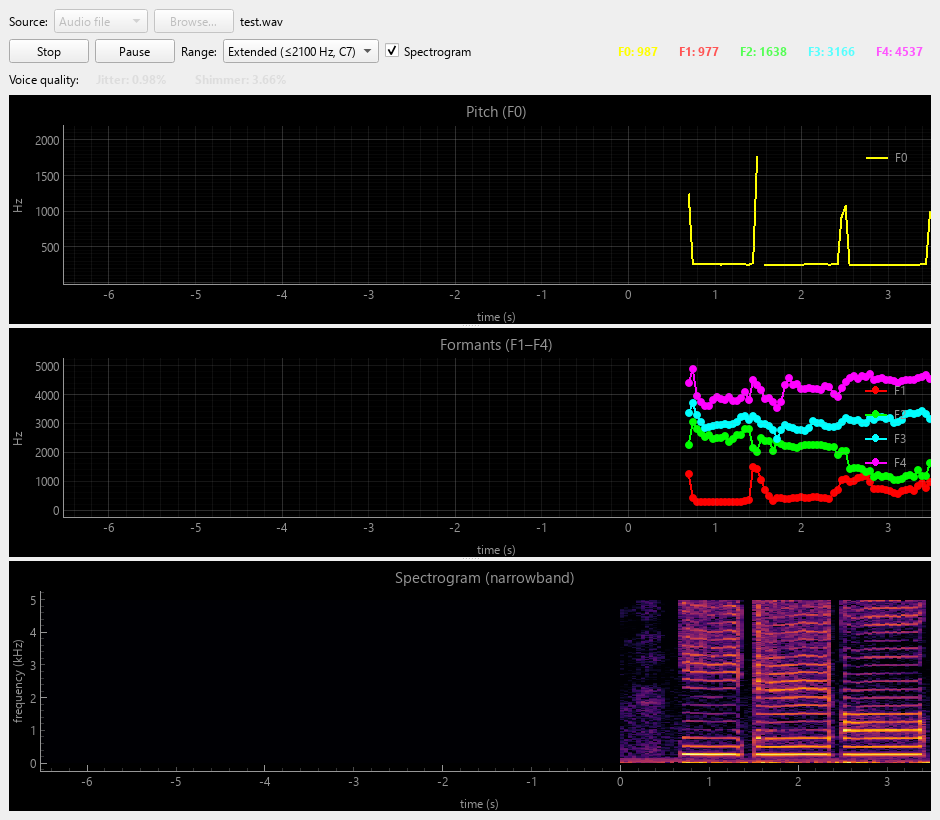
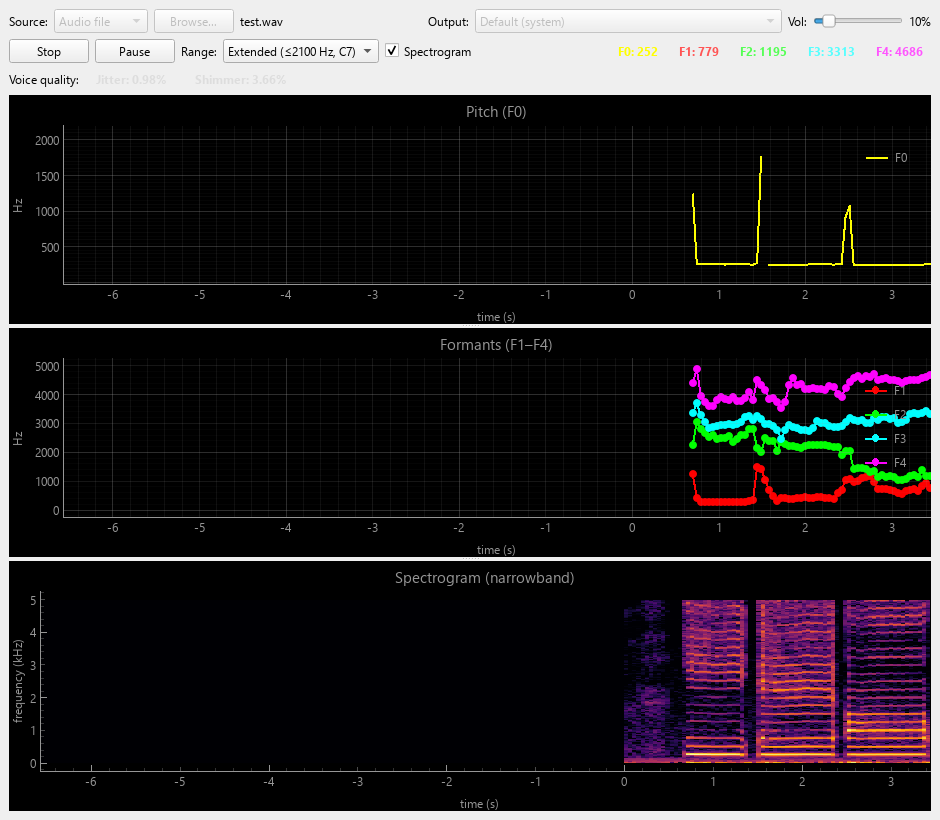
Add file playback: output device + live volume slider
- FileInput: optional playback via a sounddevice OutputStream. Each chunk is
  written (scaled by a live volume); the blocking write paces playback in sync
  with analysis. pause/resume freeze both; output-open failure falls back to
  silent analysis (play_error). Defaults: play off, volume 0.1.
- pipeline.pause/resume forward to source.pause/resume when available, so file
  playback freezes on pause.
- audio/input.list_output_devices() enumerates output-capable devices.
- main_window: in file mode, an Output device dropdown and a Vol slider
  (default 10 percent, live-adjustable, applied to the running source). Output
  dropdown disabled while running; volume stays live.
- Screenshot regenerated; docs updated. Verifies + smoke pass.

diff --git a/src/xvalite/gui/main_window.py b/src/xvalite/gui/main_window.py
@@ -19,7 +19,14 @@ from PySide6 import QtCore, QtWidgets
 from ..analysis.spectrogram import column_frequencies
 from ..analysis.voice_quality import JITTER_LOCAL_WARN, SHIMMER_LOCAL_WARN
 from ..audio.file_input import FileInput
-from ..audio.input import DEFAULT_SAMPLERATE, AudioInput, list_input_devices
+from ..audio.input import (
+    DEFAULT_SAMPLERATE,
+    AudioInput,
+    list_input_devices,
+    list_output_devices,
+)
+
+DEFAULT_VOLUME_PCT = 10  # quiet default for file playback
 from ..pipeline import (
     DEFAULT_F0_TRACK_CEILING,
     DEFAULT_SILENCE_DB,
@@ -139,10 +146,24 @@ class MainWindow(QtWidgets.QMainWindow):
             if pos >= 0:
                 self.device_combo.setCurrentIndex(pos)
 
-        # File picker (shown when source = Audio file).
+        # File picker + playback controls (shown when source = Audio file).
         self.browse_btn = QtWidgets.QPushButton("Browse…")
         self.browse_btn.clicked.connect(self._on_browse)
         self.file_label = QtWidgets.QLabel()
+
+        self.output_label = QtWidgets.QLabel("Output:")
+        self.output_combo = QtWidgets.QComboBox()
+        self.output_combo.addItem("Default (system)", None)
+        for idx, name in list_output_devices():
+            self.output_combo.addItem(f"{name}  (#{idx})", idx)
+
+        self.vol_label = QtWidgets.QLabel("Vol:")
+        self.vol_slider = QtWidgets.QSlider(QtCore.Qt.Horizontal)
+        self.vol_slider.setRange(0, 100)
+        self.vol_slider.setValue(DEFAULT_VOLUME_PCT)
+        self.vol_slider.setFixedWidth(90)
+        self.vol_value = QtWidgets.QLabel(f"{DEFAULT_VOLUME_PCT}%")
+        self.vol_slider.valueChanged.connect(self._on_volume_changed)
 
         row.addWidget(QtWidgets.QLabel("Source:"))
         row.addWidget(self.src_combo)
@@ -150,6 +171,11 @@ class MainWindow(QtWidgets.QMainWindow):
         row.addWidget(self.device_combo)
         row.addWidget(self.browse_btn)
         row.addWidget(self.file_label, stretch=1)
+        row.addWidget(self.output_label)
+        row.addWidget(self.output_combo)
+        row.addWidget(self.vol_label)
+        row.addWidget(self.vol_slider)
+        row.addWidget(self.vol_value)
         return row
 
     def _build_controls_row(self) -> QtWidgets.QHBoxLayout:
@@ -213,7 +239,14 @@ class MainWindow(QtWidgets.QMainWindow):
                     self, "No file", "Choose an audio file with Browse… first."
                 )
                 return None
-            return FileInput(self._file_path, samplerate=self.samplerate, realtime=True)
+            return FileInput(
+                self._file_path,
+                samplerate=self.samplerate,
+                realtime=True,
+                play=True,
+                output_device=self.output_combo.currentData(),
+                volume=self.vol_slider.value() / 100.0,
+            )
         return AudioInput(samplerate=self.samplerate, device=self.device_combo.currentData())
 
     def _start(self) -> None:
@@ -332,6 +365,13 @@ class MainWindow(QtWidgets.QMainWindow):
     def _on_spec_toggled(self, checked: bool) -> None:
         self.spectrogram_plot.setVisible(checked)
 
+    def _on_volume_changed(self, value: int) -> None:
+        self.vol_value.setText(f"{value}%")
+        # Apply live to a running file-playback source.
+        source = self.pipeline.source if self.pipeline is not None else None
+        if source is not None and hasattr(source, "volume"):
+            source.volume = value / 100.0
+
     def _on_source_changed(self, _index: int) -> None:
         self._sync_source_widgets()
 
@@ -348,6 +388,11 @@ class MainWindow(QtWidgets.QMainWindow):
         is_file = self.src_combo.currentData() == "file"
         self.browse_btn.setVisible(is_file)
         self.file_label.setVisible(is_file)
+        self.output_label.setVisible(is_file)
+        self.output_combo.setVisible(is_file)
+        self.vol_label.setVisible(is_file)
+        self.vol_slider.setVisible(is_file)
+        self.vol_value.setVisible(is_file)
         self.device_label.setVisible(not is_file)
         self.device_combo.setVisible(not is_file)
         if is_file:
@@ -361,6 +406,7 @@ class MainWindow(QtWidgets.QMainWindow):
         self.src_combo.setEnabled(not running)
         self.browse_btn.setEnabled(not running)
         self.device_combo.setEnabled(not running)
+        self.output_combo.setEnabled(not running)  # volume slider stays live
         self.pause_btn.setEnabled(running)
         if not running:
             self.pause_btn.blockSignals(True)

diff --git a/src/xvalite/audio/file_input.py b/src/xvalite/audio/file_input.py
@@ -21,6 +21,7 @@ import time
 from typing import Optional
 
 import numpy as np
+import sounddevice as sd
 import soundfile as sf
 
 from .input import DEFAULT_BLOCKSIZE, DEFAULT_SAMPLERATE
@@ -31,6 +32,12 @@ class FileInput:
 
     Mirrors ``AudioInput``'s ``start`` / ``read`` / ``stop`` interface. A
     ``None`` sentinel is enqueued once the file is exhausted.
+
+    Optional playback: when ``play`` is set, each chunk is also written to an
+    output device (scaled by ``volume``, live-adjustable). A blocking output
+    write paces the stream in real time, so playback and analysis stay in sync.
+    ``pause`` / ``resume`` freeze both. If the output device can't be opened,
+    playback is silently skipped and analysis continues (see ``play_error``).
     """
 
     def __init__(
@@ -39,14 +46,23 @@ class FileInput:
         samplerate: int = DEFAULT_SAMPLERATE,
         blocksize: int = DEFAULT_BLOCKSIZE,
         realtime: bool = True,
+        play: bool = False,
+        output_device: Optional[int] = None,
+        volume: float = 0.1,
     ) -> None:
         self.path = path
         self.samplerate = samplerate
         self.blocksize = blocksize
         self.realtime = realtime
+        self.play = play
+        self.output_device = output_device
+        self.volume = volume  # 0..1, read live by the worker
+        self.play_error: Optional[str] = None
         self._queue: "queue.Queue[Optional[np.ndarray]]" = queue.Queue()
         self._thread: Optional[threading.Thread] = None
         self._stop = threading.Event()
+        self._paused = threading.Event()
+        self._out_stream: Optional[sd.OutputStream] = None
 
     def _load(self) -> np.ndarray:
         """Read the file, down-mix to mono, and resample to the target rate."""
@@ -70,8 +86,20 @@ class FileInput:
         for start in range(0, samples.size, self.blocksize):
             if self._stop.is_set():
                 break
-            self._queue.put(samples[start : start + self.blocksize].copy())
-            if self.realtime:
+            # Hold position while paused: both playback and analysis freeze.
+            while self._paused.is_set() and not self._stop.is_set():
+                time.sleep(0.03)
+            if self._stop.is_set():
+                break
+            chunk = samples[start : start + self.blocksize]
+            self._queue.put(chunk.copy())
+            if self._out_stream is not None:
+                try:
+                    # Blocking write paces the loop at real time.
+                    self._out_stream.write((chunk * float(self.volume)).astype(np.float32))
+                except Exception:  # noqa: BLE001 — never let an audio glitch stop analysis
+                    pass
+            elif self.realtime:
                 next_deadline += period
                 sleep_for = next_deadline - time.monotonic()
                 if sleep_for > 0:
@@ -83,10 +111,28 @@ class FileInput:
         if self._thread is not None:
             return
         samples = self._load()
+        if self.play:
+            try:
+                self._out_stream = sd.OutputStream(
+                    samplerate=self.samplerate,
+                    channels=1,
+                    dtype="float32",
+                    device=self.output_device,
+                )
+                self._out_stream.start()
+            except Exception as exc:  # noqa: BLE001 — fall back to silent analysis
+                self.play_error = str(exc)
+                self._out_stream = None
         self._thread = threading.Thread(
             target=self._worker, args=(samples,), daemon=True
         )
         self._thread.start()
+
+    def pause(self) -> None:
+        self._paused.set()
+
+    def resume(self) -> None:
+        self._paused.clear()
 
     def read(self, timeout: Optional[float] = None) -> Optional[np.ndarray]:
         """Return the next chunk, or ``None`` at end-of-stream.
@@ -98,9 +144,14 @@ class FileInput:
     def stop(self) -> None:
         """Stop streaming. Safe to call more than once."""
         self._stop.set()
+        self._paused.clear()  # release a paused worker so it can exit
         if self._thread is not None:
             self._thread.join(timeout=1.0)
             self._thread = None
+        if self._out_stream is not None:
+            self._out_stream.stop()
+            self._out_stream.close()
+            self._out_stream = None
 
     def __enter__(self) -> "FileInput":
         self.start()

diff --git a/src/xvalite/audio/input.py b/src/xvalite/audio/input.py
@@ -38,6 +38,22 @@ def list_input_devices() -> List[Tuple[int, str]]:
     ]
 
 
+def list_output_devices() -> List[Tuple[int, str]]:
+    """Return ``(index, name)`` for every output-capable audio device.
+
+    Empty if enumeration fails. Passing ``device=None`` uses the system default.
+    """
+    try:
+        devices = sd.query_devices()
+    except Exception:  # noqa: BLE001
+        return []
+    return [
+        (idx, d["name"])
+        for idx, d in enumerate(devices)
+        if d.get("max_output_channels", 0) > 0
+    ]
+
+
 class AudioInput:
     """Capture mono audio from an input device into a queue of numpy chunks."""
 

diff --git a/src/xvalite/pipeline.py b/src/xvalite/pipeline.py
@@ -182,9 +182,14 @@ class AnalysisPipeline:
 
     def pause(self) -> None:
         self._paused.set()
+        # If the source can pause itself (e.g. file playback), freeze it too.
+        if hasattr(self.source, "pause"):
+            self.source.pause()
 
     def resume(self) -> None:
         self._paused.clear()
+        if hasattr(self.source, "resume"):
+            self.source.resume()
 
     # -- state -------------------------------------------------------------
     @property

diff --git a/CLAUDE.md b/CLAUDE.md
@@ -103,6 +103,8 @@ binaries (libsndfile, PortAudio, the Praat extension). Verified to launch;
   - `app.py` — `main()`: builds the QApplication + MainWindow (shared by dev launcher and exe).
   - `audio/input.py` — `AudioInput`: sounddevice stream → thread-safe queue of mono float32 chunks.
   - `audio/file_input.py` — `FileInput`: file → same queue contract, real-time paced, `None` sentinel at EOF.
+    Optional playback (`play`, `output_device`, live `volume`); a blocking output write paces the
+    stream; `pause`/`resume` freeze playback+analysis. Output open failure → silent fallback (`play_error`).
   - `analysis/pitch.py` — `extract_f0` / `latest_f0`: Parselmouth F0 (unvoiced → NaN).
   - `analysis/formant.py` — `extract_formants` / `latest_formants`: Burg F1-F4 (undefined → NaN).
   - `analysis/voice_quality.py` — `measure_voice_quality` → `VoiceQuality` (local jitter/shimmer + fixed-threshold warning flags).
@@ -129,8 +131,8 @@ binaries (libsndfile, PortAudio, the Praat extension). Verified to launch;
   - `gui/spectrogram_plot.py` — `SpectrogramPlot`: scrolling waterfall (ImageItem +
     inferno colormap); 2-D dB buffer scrolls left, levels auto-track the peak.
   - `gui/main_window.py` — `MainWindow`: owns the pipeline lifecycle. Source row
-    (Microphone + input-device dropdown / Audio file + Browse…) → Start builds
-    source+pipeline; QTimer polls
+    (Microphone + input-device dropdown / Audio file + Browse… + output-device dropdown +
+    volume slider) → Start builds source+pipeline; QTimer polls
     `pipeline.drain()` → pitch plot (F0) + formant plot (F1–F4, markers); Pause/Resume →
     `pipeline.pause/resume`; Range dropdown toggles F0 ceiling Normal (880 Hz/A5) ↔
     Extended (2100 Hz/C7) live. Numeric readout shows F0 + F1–F4 (color-matched).

diff --git a/Handoff.md b/Handoff.md
@@ -107,6 +107,7 @@
 | 2026-06-03 | Claude Code (Opus 4.8) | READMEにGoogle Drive配布セクション追加（SmartScreen注意含む） |
 | 2026-06-03 | Claude Code (Opus 4.8) | **機能追加: 狭帯域スペクトログラム**（`analysis/spectrogram`＋`gui/spectrogram_plot`、FFT2048≒21.5Hz分解能、スクロール式ウォーターフォール、表示ON/OFF）。3ペインをQSplitterで配置。合成音で分解能検証・スモーク合格・スクショ更新 |
 | 2026-06-03 | Claude Code (Opus 4.8) | ビルドスクリプトをcwd非依存に修正（PSScriptRoot基準、失敗時throw）。マイク入力デバイス選択ドロップダウン追加（`list_input_devices`、既定=システム既定、マイク選択時のみ表示） |
+| 2026-06-03 | Claude Code (Opus 4.8) | ファイル再生機能追加: `FileInput`が出力デバイスへ再生（出力デバイス選択＋音量スライダー既定10%、ライブ調整）。pauseで再生も停止（pipeline→source.pause転送）。出力失敗時は無音フォールバック。スクショ更新 |
 
 ### 技術メモ: フォルマント分析の高速化余地
 - 現状フォルマントとJitter/Shimmerは同じ1秒カデンス(`SlowSample`)に束ねている。1秒は要件上の選択で技術的限界ではない。
